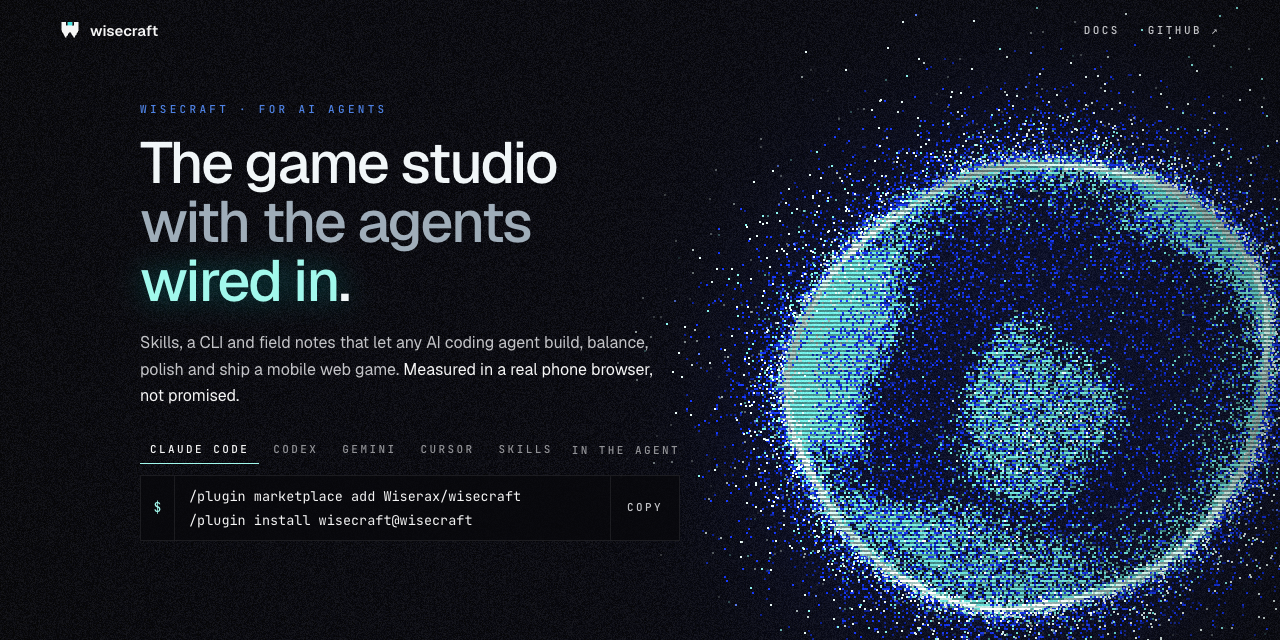
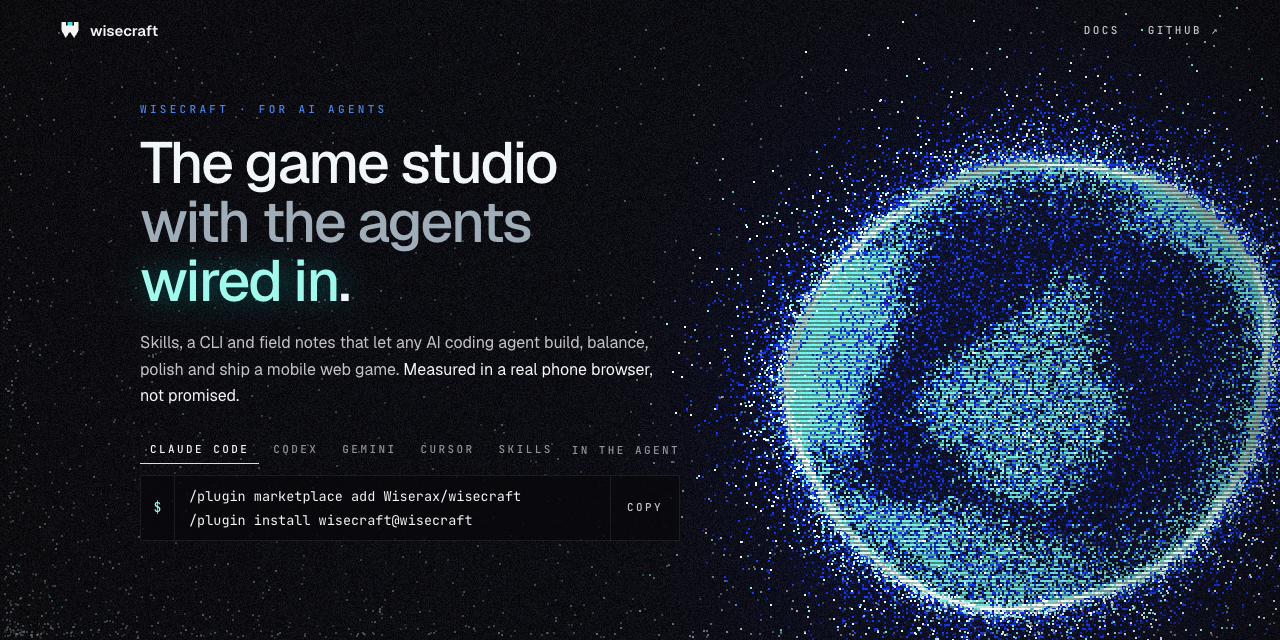
Site: a one-screen landing page; dust over the page, a maker mark and a credits chip; an island in the middle of the sphere
Everything below the hero is gone (the README has it), the page does not scroll, and the rail links to the
docs. Sparse motes drift and twinkle over the page, densest at the empty bottom-left. Short desktop screens
get tighter spacing; phones under 700 px tall may scroll so nothing is cut.

Changed region(s): [[0.6875, 0.4062, 0.875, 0.7188], [0.0, 0.9688, 0.0625, 1.0], [0.8438, 0.7188, 0.875, 0.75]]

diff --git a/docs/site/index.html b/docs/site/index.html
@@ -93,10 +93,15 @@ footer a{color:var(--ink-7)}footer a:hover{color:var(--ink-9)}
 a:focus-visible,button:focus-visible,summary:focus-visible{outline:1px solid var(--rim);outline-offset:2px}
 @media (max-width:600px){.cmd code{white-space:normal;overflow-wrap:anywhere}}
 @media (max-width:900px){nav,.hero,section,footer{padding-left:22px;padding-right:22px}.tabs button{white-space:nowrap}.cmd code{font-size:12.5px}h1{font-size:clamp(38px,11vw,56px)}.g5,.g4{grid-template-columns:repeat(2,1fr)}.g3{grid-template-columns:1fr}.row{grid-template-columns:1fr}.delta{text-align:left}.frames{grid-template-columns:repeat(2,1fr)}
-.hero{padding-top:120px;padding-bottom:calc(84vw + 56px)}nav .links a.hide{display:none}.tabs{overflow-x:auto}.tabs .right{display:none}td{display:block;border:0;padding:0 0 12px}td:first-child{padding-top:12px;border-top:1px solid var(--line);white-space:normal;word-break:break-word}table{border-top:0;border-bottom:1px solid var(--line)}section{padding-top:72px;padding-bottom:72px}}
-@media (min-width:901px) and (max-aspect-ratio:11/10){.hero{padding-bottom:calc(60vw + 56px)}}
+.hero{padding-top:104px;padding-bottom:0}nav .links a.hide{display:none}.tabs{overflow-x:auto}.tabs .right{display:none}td{display:block;border:0;padding:0 0 12px}td:first-child{padding-top:12px;border-top:1px solid var(--line);white-space:normal;word-break:break-word}table{border-top:0;border-bottom:1px solid var(--line)}section{padding-top:72px;padding-bottom:72px}}
+html,body{height:100%;overflow:hidden}.hero{height:100vh;height:100svh;min-height:0}
+.maker{position:fixed;left:32px;bottom:26px;z-index:20;display:flex;align-items:center;gap:10px;font:500 15px/1 var(--sans);letter-spacing:-.01em;color:var(--ink-9);text-decoration:none}.maker svg{width:18px;height:18px;fill:none;stroke:var(--accent);stroke-width:1.6;stroke-linecap:round}.maker:hover{color:var(--accent)}
+.legal{position:fixed;right:28px;bottom:22px;z-index:20;padding:8px 12px;border:1px solid var(--line);background:#050507b3;font:500 10px/1 var(--mono);letter-spacing:.22em;text-transform:uppercase;color:var(--ink-6);text-decoration:none}.legal:hover{color:var(--ink-7)}
+@media (max-width:900px){.maker{left:22px;bottom:20px;font-size:14px}.legal{right:16px;bottom:16px;padding:6px 9px;font-size:9px}}
+@media (max-height:600px),(max-width:600px) and (max-height:700px){html,body{height:auto;overflow:auto}.hero{height:auto;min-height:100svh;padding-bottom:120px}}
+@media (min-width:901px) and (max-height:820px){.hero{padding-top:112px}h1{margin-top:16px;font-size:clamp(40px,4.3vw,60px)}.sub{margin-top:20px}.install{margin-top:26px}.compat{margin-top:24px}}
 html.banner .hero{min-height:640px;height:640px;padding:104px 140px 0}html.banner nav{padding:20px 60px}html.banner h1{font-size:58px;margin-top:18px}html.banner .sub{margin-top:20px;font-size:16px}
-html.banner .install{margin-top:26px;max-width:540px}html.banner .compat,html.banner .rail,html.banner section,html.banner footer{display:none}
+html.banner .install{margin-top:26px;max-width:540px}html.banner .compat,html.banner .rail,html.banner .maker,html.banner .legal{display:none}
 @media (prefers-reduced-motion:reduce){html{scroll-behavior:auto}*{transition:none!important;animation:none!important}}
 </style>
 </head>
@@ -104,7 +109,7 @@ html.banner .install{margin-top:26px;max-width:540px}html.banner .compat,html.ba
 <div class="grain" aria-hidden="true"></div>
 <nav aria-label="Site"><a class="brand" href="#top" aria-label="wisecraft, top of page"><svg viewBox="0 0 100 100" width="20" height="20" aria-hidden="true"><polygon points="8,10 30,10 30,27 39,27 39,10 61,10 61,27 70,27 70,10 92,10 92,54 71,90 50,58 29,90 8,54" fill="#F5F5F5"/><rect x="39" y="10" width="22" height="17" fill="#45E3E0"/></svg>wisecraft</a>
 <div class="links"><a href="https://github.com/Wiserax/wisecraft#readme">DOCS</a><a href="https://github.com/Wiserax/wisecraft">GITHUB <span aria-hidden="true">↗</span></a></div></nav>
-<aside class="rail" aria-label="Sections"><a href="#loop" title="The loop" aria-label="The loop"><svg viewBox="0 0 24 24" aria-hidden="true"><path d="M4 12a8 8 0 0 1 13.7-5.7M20 12a8 8 0 0 1-13.7 5.7M17 3v4h-4M7 21v-4h4"/></svg><em>01</em></a><a href="#skills" title="Skills" aria-label="Skills"><svg viewBox="0 0 24 24" aria-hidden="true"><path d="M4 4h7v7H4zM13 4h7v7h-7zM4 13h7v7H4zM13 13h7v7h-7z"/></svg><em>02</em></a><a href="#cli" title="The wise CLI" aria-label="The wise CLI"><svg viewBox="0 0 24 24" aria-hidden="true"><path d="M3 5h18v14H3zM7 10l3 2-3 2M12.5 14.5H17"/></svg><em>03</em></a><a href="#knowledge" title="Knowledge base" aria-label="Knowledge base"><svg viewBox="0 0 24 24" aria-hidden="true"><path d="M6 3h9l4 4v14H6zM9.5 12h6M9.5 16h6"/></svg><em>04</em></a><a href="#measured" title="Measured" aria-label="Measured"><svg viewBox="0 0 24 24" aria-hidden="true"><path d="M4 20V10M10 20V4M16 20v-8M22 20H2"/></svg><em>05</em></a><a href="#versus" title="With vs without" aria-label="With vs without"><svg viewBox="0 0 24 24" aria-hidden="true"><path d="M5 20V8h5v12M14 20V5h5v15M3 20h18"/></svg><em>06</em></a><a href="#built" title="Built with it" aria-label="Built with it"><svg viewBox="0 0 24 24" aria-hidden="true"><path d="M3 5h18v14H3zM10 9l5.5 3-5.5 3z"/></svg><em>07</em></a><a href="#install" title="Install" aria-label="Install"><svg viewBox="0 0 24 24" aria-hidden="true"><path d="M12 3v12M7 10l5 5 5-5M4 20h16"/></svg><em>08</em></a></aside>
+<aside class="rail" aria-label="Sections"><a href="https://github.com/Wiserax/wisecraft#try-it" title="The loop" aria-label="The loop"><svg viewBox="0 0 24 24" aria-hidden="true"><path d="M4 12a8 8 0 0 1 13.7-5.7M20 12a8 8 0 0 1-13.7 5.7M17 3v4h-4M7 21v-4h4"/></svg><em>01</em></a><a href="https://github.com/Wiserax/wisecraft#whats-inside" title="Skills" aria-label="Skills"><svg viewBox="0 0 24 24" aria-hidden="true"><path d="M4 4h7v7H4zM13 4h7v7h-7zM4 13h7v7H4zM13 13h7v7h-7z"/></svg><em>02</em></a><a href="https://github.com/Wiserax/wisecraft#whats-inside" title="The wise CLI" aria-label="The wise CLI"><svg viewBox="0 0 24 24" aria-hidden="true"><path d="M3 5h18v14H3zM7 10l3 2-3 2M12.5 14.5H17"/></svg><em>03</em></a><a href="https://github.com/Wiserax/wisecraft#a-knowledge-base-that-ais-write-for-ais" title="Knowledge base" aria-label="Knowledge base"><svg viewBox="0 0 24 24" aria-hidden="true"><path d="M6 3h9l4 4v14H6zM9.5 12h6M9.5 16h6"/></svg><em>04</em></a><a href="https://github.com/Wiserax/wisecraft#built-with-it" title="Measured" aria-label="Measured"><svg viewBox="0 0 24 24" aria-hidden="true"><path d="M4 20V10M10 20V4M16 20v-8M22 20H2"/></svg><em>05</em></a><a href="https://github.com/Wiserax/wisecraft#rules-it-follows" title="Rules it follows" aria-label="Rules it follows"><svg viewBox="0 0 24 24" aria-hidden="true"><path d="M5 20V8h5v12M14 20V5h5v15M3 20h18"/></svg><em>06</em></a><a href="https://github.com/Wiserax/wisecraft#made-a-game-with-it" title="Built with it" aria-label="Built with it"><svg viewBox="0 0 24 24" aria-hidden="true"><path d="M3 5h18v14H3zM10 9l5.5 3-5.5 3z"/></svg><em>07</em></a><a href="https://github.com/Wiserax/wisecraft#install" title="Install" aria-label="Install"><svg viewBox="0 0 24 24" aria-hidden="true"><path d="M12 3v12M7 10l5 5 5-5M4 20h16"/></svg><em>08</em></a></aside>
 <main id="top">
 <header class="hero">
 <canvas id="planet" aria-hidden="true"></canvas>
@@ -116,57 +121,9 @@ html.banner .install{margin-top:26px;max-width:540px}html.banner .compat,html.ba
 <div class="compat"><p class="label">Compatible</p><ul><li title="Claude Code"><svg viewBox="0 0 24 24" role="img" aria-label="Claude Code"><path d="M12 3v18M3 12h18M5.6 5.6l12.8 12.8M18.4 5.6L5.6 18.4"/></svg></li><li title="Codex"><svg viewBox="0 0 24 24" role="img" aria-label="Codex"><path d="M12 3l8 4.5v9L12 21l-8-4.5v-9z"/></svg></li><li title="Cursor"><svg viewBox="0 0 24 24" role="img" aria-label="Cursor"><path d="M5 3l14 9-6 1.5L10 20z"/></svg></li><li title="Gemini CLI"><svg viewBox="0 0 24 24" role="img" aria-label="Gemini CLI"><path d="M12 3c1 5 4 8 9 9-5 1-8 4-9 9-1-5-4-8-9-9 5-1 8-4 9-9z"/></svg></li><li title="Copilot"><svg viewBox="0 0 24 24" role="img" aria-label="Copilot"><path d="M4 9h16v8a3 3 0 0 1-3 3H7a3 3 0 0 1-3-3zM9 13v2M15 13v2"/></svg></li><li title="OpenCode"><svg viewBox="0 0 24 24" role="img" aria-label="OpenCode"><path d="M8 7l-5 5 5 5M16 7l5 5-5 5"/></svg></li></ul></div>
 </header>
 
-<section id="loop"><p class="num">01 · the loop</p><h2>One loop, <i>every time</i>.</h2>
-<p class="lead">Ask for anything: “stage 1 is boring”, “the explosions are too loud”, “it lags on stage 7”. The agent finds its place in the loop and works from there.</p>
-<div class="grid g5"><div class="cell"><span class="n">01</span><b>Recon</b><small>wise scan</small></div><div class="cell"><span class="n">02</span><b>Slice</b><small>one playable loop</small></div><div class="cell"><span class="n">03</span><b>Economy</b><small>player-model bots</small></div><div class="cell"><span class="n">04</span><b>UI kit</b><small>one golden CTA</small></div><div class="cell"><span class="n">05</span><b>Feel + audio</b><small>a measured mix</small></div><div class="cell"><span class="n">06</span><b>Performance</b><small>60 fps that holds</small></div><div class="cell"><span class="n">07</span><b>Browser QA</b><small>wise qa</small></div><div class="cell"><span class="n">08</span><b>Release</b><small>wise publish check</small></div><div class="cell"><span class="n">09</span><b>Trailer</b><small>wise video compile</small></div><div class="cell"><span class="n">10</span><b>Field note</b><small>wise kb add</small></div></div></section>
-
-<section id="skills"><p class="num">02 · skills</p><h2>Twelve skills. <i>One router</i>.</h2>
-<p class="lead">Agent Skills format. The same files for every agent; <span class="mono">make-web-game</span> says which one to open next.</p>
-<div class="grid g4"><a class="cell" href="https://github.com/Wiserax/wisecraft/tree/main/skills/make-web-game"><code>make-web-game</code><p>The loop, the producer contract, the golden rules, and which skill to open next</p></a><a class="cell" href="https://github.com/Wiserax/wisecraft/tree/main/skills/web-game-recon"><code>web-game-recon</code><p>Stack, saves, analytics, debug hooks and the baseline, before anything changes</p></a><a class="cell" href="https://github.com/Wiserax/wisecraft/tree/main/skills/game-economy"><code>game-economy</code><p>Player-model bots, a difficulty index, rising-sine stages, boss tiers</p></a><a class="cell" href="https://github.com/Wiserax/wisecraft/tree/main/skills/game-ui-kit"><code>game-ui-kit</code><p>One golden call to action, a one-row battle bar, a wordless first session</p></a><a class="cell" href="https://github.com/Wiserax/wisecraft/tree/main/skills/game-feel-audio"><code>game-feel-audio</code><p>Bosses you feel, and a mix that is measured, never played aloud</p></a><a class="cell" href="https://github.com/Wiserax/wisecraft/tree/main/skills/game-performance"><code>game-performance</code><p>Budgets, real late-stage tests, a quality guard that recovers</p></a><a class="cell" href="https://github.com/Wiserax/wisecraft/tree/main/skills/browser-qa"><code>browser-qa</code><p>Muted phone bots that tap like players; errors and overflow fail the run</p></a><a class="cell" href="https://github.com/Wiserax/wisecraft/tree/main/skills/release-web-game"><code>release-web-game</code><p>Version, prebuilt deploy, live checks, frozen older versions</p></a><a class="cell" href="https://github.com/Wiserax/wisecraft/tree/main/skills/agent-orchestration"><code>agent-orchestration</code><p>A lead, workers, file ownership, milestone notes</p></a><a class="cell" href="https://github.com/Wiserax/wisecraft/tree/main/skills/trailer-video"><code>trailer-video</code><p>A hook in 3 s, the loop by 8 s, a slow-motion finale</p></a><a class="cell" href="https://github.com/Wiserax/wisecraft/tree/main/skills/design-boards"><code>design-boards</code><p>HTML mockups to phone-sized boards</p></a><a class="cell" href="https://github.com/Wiserax/wisecraft/tree/main/skills/share-field-notes"><code>share-field-notes</code><p>Search the knowledge base, write a note, open the PR</p></a></div></section>
-
-<section id="cli"><p class="num">03 · the wise cli</p><h2>Tools that <i>measure</i>.</h2>
-<p class="lead">One Python CLI. Every command has <span class="mono">--help</span> with examples.</p>
-<table><tbody><tr><td>wise scan</td><td>What a web game is made of: stack, versions, entry points, debug hooks, analytics, audio, bundle size.</td></tr><tr><td>wise qa</td><td>A muted phone-sized browser that taps like a player. Console errors and overflow fail the run.</td></tr><tr><td>wise board</td><td>HTML mockups in, phone-sized screens and one review board out.</td></tr><tr><td>wise loudness</td><td>How loud a file is, measured with ffmpeg. Never played.</td></tr><tr><td>wise dupframes</td><td>Repeated frames in a video: the stutter check for slow motion.</td></tr><tr><td>wise video compile</td><td>An edit list in, a finished trailer out.</td></tr><tr><td>wise kb</td><td>The knowledge base: search, add, check, index, pr.</td></tr><tr><td>wise publish check</td><td>Stops secrets, private URLs and names you listed from going public.</td></tr></tbody></table>
-<pre aria-label="Real output of wise qa on the sample game"><b><i>$</i> wise qa http://127.0.0.1:5890/ --ready "window.__game" --seconds 10 --out shots</b>
-<u>PASS</u>  chromium 390x844  http://127.0.0.1:5890/  (system chrome)
-  ready:        yes after 201 ms  (window.__game)
-  game:         window.__game found, keys: sim, state, step, tap; other hooks: __THREE__
-  taps:         20 of 20 over 10 s in canvas, seed 1
-  blocked:      1 request(s) matching **/api/events
-  errors:       none
-  overflow:     none
-  failed requests: none
-  screenshots:  shots/1-start.png, shots/2-middle.png, shots/3-end.png</pre></section>
-
-<section id="knowledge"><p class="num">04 · knowledge base</p><h2>20 field notes, <i>written by agents</i>.</h2>
-<p class="lead">Each one is a problem a real web game hit, the cause and the fix: versions, verification, and what was not verified. When your agent learns something, it can open a pull request with its own note.</p>
-<ul class="notes"><li><a href="https://github.com/Wiserax/wisecraft/blob/main/knowledge/games/horde-tower-defense-mobile-web/a-double-size-boss-stood-half-a-metre-out-of-reach-and-never.md"><span>game</span>A double-size boss stood half a metre out of reach and never hit the wall</a></li><li><a href="https://github.com/Wiserax/wisecraft/blob/main/knowledge/games/horde-tower-defense-mobile-web/the-audio-mix-measured-not-listened-to-music-at-34-lufs-made.md"><span>game</span>The audio mix measured, not listened to: music at -34 LUFS made every boom read 9 to 19 dB too loud</a></li><li><a href="https://github.com/Wiserax/wisecraft/blob/main/knowledge/games/horde-tower-defense-mobile-web/a-quality-guard-that-asked-for-13-ms-frames-never-recovered.md"><span>game</span>A quality guard that asked for 13 ms frames never recovered on a 60 Hz screen</a></li><li><a href="https://github.com/Wiserax/wisecraft/blob/main/knowledge/techniques/sim-bots-and-a-real-browser-bot-disagree-about-the-first-ses.md"><span>technique</span>Sim bots and a real-browser bot disagree about the first session: prove the first minutes with real taps</a></li></ul>
-<pre><b><i>$</i> wise kb search "boss never reaches the wall"</b>
-<b><i>$</i> wise kb add --game "My roguelite (mobile web)" --title "A dash that never clips walls"</b></pre></section>
-
-<section id="measured"><p class="num">05 · measured</p><h2>Before and after, <i>on a shipped game</i>.</h2>
-<p class="lead">A horde tower defense for phones: Vite + three.js, 8,000 enemies on screen at 60 fps. One project, one machine; each figure is a single measurement or a small set, as its source says.</p>
-<div class="legend"><span><i></i>before</span><span class="a"><i></i>after</span></div>
-<div class="chart"><div class="row"><div><h3>Dead air in the first stage</h3><small>longest stretch with nothing new to watch, waves 2–3</small></div><div class="bars"><div class="bar"><i style="width:78.0%"></i>18.4 s</div><div class="bar after"><i style="width:40.3%"></i>9.5 s</div></div><div class="delta">−48%</div></div><div class="row"><div><h3>First sound after the first tap</h3><small>new player, Fast 4G profile, 4× slower CPU, median of 5</small></div><div class="bars"><div class="bar"><i style="width:78.0%"></i>7.6 s</div><div class="bar after"><i style="width:15.4%"></i>1.5 s</div></div><div class="delta">5× sooner</div></div><div class="row"><div><h3>Frame rate when the horde piles up</h3><small>slow phone (4× CPU throttle), about 5,000 enemies</small></div><div class="bars"><div class="bar"><i style="width:29.5%"></i>14 fps</div><div class="bar after"><i style="width:78.0%"></i>37 fps</div></div><div class="delta">2.6×</div></div><div class="row"><div><h3>Slow-motion frames that show new motion</h3><small>out of 24 slowed frames in a boss death</small></div><div class="bars"><div class="bar"><i style="width:30.5%"></i>9 of 24</div><div class="bar after"><i style="width:78.0%"></i>23 of 24</div></div><div class="delta">2.6×</div></div><div class="row"><div><h3>How long a boss survives a fast tapper</h3><small>stage boss, producer-like player model</small></div><div class="bars"><div class="bar"><i style="width:28.9%"></i>10 s</div><div class="bar after"><i style="width:78.0%"></i>27 s</div></div><div class="delta">2.7×</div></div><div class="row"><div><h3>Boss-death boom over the music</h3><small>loudest 400 ms against the music bed</small></div><div class="bars"><div class="bar"><i style="width:78.0%"></i>+11.5 dB</div><div class="bar after"><i style="width:18.3%"></i>−2.7 dB</div></div><div class="delta">−14 dB</div></div></div>
-<details><summary>Where each number comes from</summary><ul><li><b>Dead air in the first stage</b>: 18.4 s to 9.5 s. outputs/coordination/log.md, stage-1 scout entry (real build, 390×844, one seed).</li><li><b>First sound after the first tap</b>: 7.6 s to 1.5 s. MODLOG.md, 2026-10-09 audio load order entry.</li><li><b>Frame rate when the horde piles up</b>: 14 fps to 37 fps. MODLOG.md, 2026-10-09 adaptive quality guard entry (lowest 20 s window).</li><li><b>Slow-motion frames that show new motion</b>: 9 of 24 to 23 of 24. MODLOG.md, 2026-10-11 VFX entry; trailer NOTES.md.</li><li><b>How long a boss survives a fast tapper</b>: 10 s to 27 s. MODLOG.md, 2.3.1 open list (about 10 s); outputs/coordination/log.md, 2.3.2 release entry (27 s).</li><li><b>Boss-death boom over the music</b>: +11.5 dB to −2.7 dB. outputs/audio-235/loudness-table.md (muted captures, BS.1770).</li></ul></details></section>
-
-<section id="versus"><p class="num">06 · with vs without</p><h2>A benchmark that <i>shows nothing yet</i>.</h2>
-<p class="lead">Three toy tasks on a 200-line sample game, 18 headless runs, scored by script.</p>
-<div class="grid g3"><div class="panel"><h3>Checks passed</h3><div class="who">without</div><div class="bar"><i style="width:60.6%"></i><b>98%</b></div><div class="sd">± 7 · n = 9</div><div class="who">with wisecraft</div><div class="bar after"><i style="width:62.0%"></i><b>100%</b></div><div class="sd">± 0 · n = 9</div></div><div class="panel"><h3>Minutes per task</h3><div class="who">without</div><div class="bar"><i style="width:60.7%"></i><b>3.6</b></div><div class="sd">± 1.6 · n = 9</div><div class="who">with wisecraft</div><div class="bar after"><i style="width:62.0%"></i><b>3.7</b></div><div class="sd">± 1.3 · n = 9</div></div><div class="panel"><h3>Tokens per task</h3><div class="who">without</div><div class="bar"><i style="width:57.9%"></i><b>825 k</b></div><div class="sd">± 420 k · n = 9</div><div class="who">with wisecraft</div><div class="bar after"><i style="width:62.0%"></i><b>884 k</b></div><div class="sd">± 454 k · n = 9</div></div></div>
-<p class="caption">Three toy tasks, 18 runs: 100% vs 98% of checks. <b>The tasks were too easy to separate the two</b>, so this shows no difference yet. Harder, real-game tasks are next. Harness and raw results: <a href="https://github.com/Wiserax/wisecraft/tree/main/benchmarks"><u>benchmarks/</u></a>.</p></section>
-
-<section id="built"><p class="num">07 · built with it</p><h2>Written while <i>shipping one</i>.</h2>
-<ul class="plain"><li>Ten-stage chapters shaped as a rising sine, with bosses and a titan that walk in from the edge of the field and slam the walls.</li>
-<li>Balanced with four player-model bots, then proven with a browser bot that taps the real UI.</li>
-<li>A mix measured in a muted browser and never played aloud by an agent.</li>
-<li>A producer, a lead agent and worker agents; every step written down.</li></ul>
-<div class="frames"><figure><img src="frames/boss.jpg" alt="2x boss slam: a frame from the shipped game" loading="lazy" width="480" height="270"><figcaption>2x boss slam</figcaption></figure><figure><img src="frames/horde.jpg" alt="8,000 at 60 fps: a frame from the shipped game" loading="lazy" width="480" height="270"><figcaption>8,000 at 60 fps</figcaption></figure><figure><img src="frames/titan.jpg" alt="titan wave: a frame from the shipped game" loading="lazy" width="480" height="270"><figcaption>titan wave</figcaption></figure><figure><img src="frames/vault.jpg" alt="vault reveal: a frame from the shipped game" loading="lazy" width="480" height="270"><figcaption>vault reveal</figcaption></figure><figure><img src="frames/blade.jpg" alt="blade frenzy: a frame from the shipped game" loading="lazy" width="480" height="270"><figcaption>blade frenzy</figcaption></figure><figure><img src="frames/clear.jpg" alt="chapter clear: a frame from the shipped game" loading="lazy" width="480" height="270"><figcaption>chapter clear</figcaption></figure></div></section>
-
-<section id="install"><p class="num">08 · install</p><h2>Pick your agent. <i>Same skills</i>.</h2>
-<table><tbody><tr><td>/plugin marketplace add Wiserax/wisecraft</td><td>Claude Code · then /plugin install wisecraft@wisecraft</td></tr><tr><td>codex plugin marketplace add Wiserax/wisecraft</td><td>Codex · then codex plugin add wisecraft@wisecraft</td></tr><tr><td>gemini extensions install https://github.com/Wiserax/wisecraft</td><td>Gemini</td></tr><tr><td>git clone https://github.com/Wiserax/wisecraft</td><td>Cursor</td></tr><tr><td>npx skills add https://github.com/Wiserax/wisecraft</td><td>Skills</td></tr><tr><td>uv tool install git+https://github.com/Wiserax/wisecraft</td><td>The CLI alone</td></tr></tbody></table>
-<p class="caption">Needs Python 3.10+, Node 18+ and ffmpeg. The browser tools use Playwright from your game's folder.</p></section>
 </main>
-<footer><span>MIT · created by Alex Wiserax</span><span>Architecture adapted from <a href="https://github.com/rehan-remade/universal-modder">Universal Modder</a> by Rehan, MIT</span><a href="https://github.com/Wiserax/wisecraft">github.com/Wiserax/wisecraft</a></footer>
+<a class="maker" href="https://github.com/Wiserax" aria-label="Wiserax on GitHub"><svg viewBox="0 0 24 24" aria-hidden="true"><path d="M12 2v20M2 12h20M5 5l14 14M19 5L5 19"/></svg>Wiserax</a>
+<a class="legal" href="https://github.com/Wiserax/wisecraft#credits">MIT · Wiserax © 2026</a>
 <script>
 (()=>{
 if(location.hash==='#banner')document.documentElement.classList.add('banner');

diff --git a/docs/site/sphere.js b/docs/site/sphere.js
@@ -10,7 +10,7 @@
 
   const COMMON = `#version 300 es
 precision highp float; precision highp int;
-uniform vec2 uRes; uniform float uDpr, uT; uniform vec4 uE; uniform vec2 uK;   // uE: centre.xy, radii.zw; uK: tilt, wide
+uniform vec2 uRes; uniform float uDpr, uT, uDust; uniform vec4 uE; uniform vec2 uK;   // uE: centre.xy, radii.zw; uK: tilt, wide
 const float TAU = 6.2831853;
 uint hh(uint x){ x ^= x >> 17; x *= 0xed5ad4bbu; x ^= x >> 11; x *= 0xac4c1b51u; x ^= x >> 15; x *= 0x31848babu; x ^= x >> 14; return x; }
 float rf(uint x){ return float(hh(x) >> 8) / 16777216.0; }
@@ -69,6 +69,8 @@ void main(){
     isl = max(isl, smoothstep(0.845, 0.950, dot(P, normalize(vec3(0.85, -0.45, -0.28)))));
     isl = max(isl, smoothstep(0.895, 0.985, dot(P, normalize(vec3(-0.30, 0.62, 0.72)))));
     isl = max(isl, smoothstep(0.835, 0.940, dot(P, normalize(vec3(-0.70, 0.20, -0.68)))));
+    vec3 C = normalize(N + 0.12 * vec3(sin(N.y * 7.0 + t * 0.006), sin(N.x * 6.0 - t * 0.005), 0.0));
+    isl = max(isl, 0.9 * smoothstep(0.885, 0.975, C.z + 0.02 * sin(t * 0.004)));
     float rimBand = exp(-dp / (34.0 * s));
     float core = isl * isl;                                                   // islands are densest in the middle
     pr = exp(-dp / (5.0 * s)) * 0.9 + 0.08 * core * lit;
@@ -105,6 +107,21 @@ void main(){
   const PART_VS = COMMON + `
 out float vA; out vec3 vC;
 void main(){
+  if (uDust > 0.5) {
+    uint dd = hh(uint(gl_VertexID) ^ 0x9b05688cu);
+    float a1 = rf(dd), a2 = rf(dd ^ 0x1f83d9abu), a3 = rf(dd ^ 0x5be0cd19u), a4 = rf(dd ^ 0x6a09e667u);
+    vec2 w = WH(); float s = SC();
+    // most motes sit low and to the left, drifting up and right very slowly, and twinkle
+    vec2 p = vec2(pow(a1, 1.9) * w.x * 1.05, w.y * (1.0 - pow(a2, 2.2) * 0.95));
+    p += vec2(0.045, -0.03) * s * uT * (0.4 + a3);
+    p = mod(p + w * 0.1, w * 1.2) - w * 0.1;
+    float tw = 0.5 + 0.5 * sin(uT * (0.01 + 0.03 * a4) + a3 * TAU);
+    vA = (0.55 + 0.45 * a4) * (0.45 + 0.55 * tw) * mix(0.35, 1.0, textMask(p));
+    vC = a3 > 0.82 ? vec3(0.55, 0.98, 0.95) : vec3(0.95, 0.97, 1.0);
+    gl_Position = vec4(p.x / w.x * 2.0 - 1.0, 1.0 - p.y / w.y * 2.0, 0.0, 1.0);
+    gl_PointSize = 2.0;
+    return;
+  }
   uint sd = hh(uint(gl_VertexID) ^ 0x2545f491u);
   float u1 = rf(sd), u2 = rf(sd ^ 0x68e31da4u), u3 = rf(sd ^ 0xb5297a4du), u4 = rf(sd ^ 0x1b56c4e9u),
         u5 = rf(sd ^ 0x7fb5d329u), u6 = rf(sd ^ 0xd2a98b26u), u7 = rf(sd ^ 0x3c6ef372u);
@@ -147,10 +164,10 @@ precision highp float; in float vA; in vec3 vC; out vec4 o; void main(){ o = vec
   };
   const field = prog(FIELD_VS, FIELD_FS), parts = prog(PART_VS, PART_FS);
   gl.bindVertexArray(gl.createVertexArray());
-  const loc = (p) => Object.fromEntries(['uRes', 'uDpr', 'uT', 'uE', 'uK'].map((n) => [n, gl.getUniformLocation(p, n)]));
+  const loc = (p) => Object.fromEntries(['uRes', 'uDpr', 'uT', 'uE', 'uK', 'uDust'].map((n) => [n, gl.getUniformLocation(p, n)]));
   const L = new Map([[field, loc(field)], [parts, loc(parts)]]);
 
-  let E = [0, 0, 1, 1], K = [0, 0], N = 0, dpr = 1;
+  let E = [0, 0, 1, 1], K = [0, 0], N = 0, ND = 0, dpr = 1;
   const geom = () => {
     const hero = cv.parentElement, W = hero.clientWidth, H = hero.clientHeight;
     dpr = Math.min(devicePixelRatio || 1, 1.5);
@@ -175,19 +192,20 @@ precision highp float; in float vA; in vec3 vC; out vec4 o; void main(){ o = vec
       const r = 0.40 * W;
       E = [0.64 * W, Math.max(bottom + 36 + r * 1.02, H - r * 1.1), r, r * 1.02]; K = [-0.3, 0];
     }
-    N = Math.round(0.0034 * W * H);
+    N = Math.round(0.0034 * W * H); ND = Math.round(0.0016 * W * H);
     gl.viewport(0, 0, cv.width, cv.height);
   };
   const set = (p, t) => {
     const u = L.get(p); gl.useProgram(p);
     gl.uniform2f(u.uRes, cv.width, cv.height); gl.uniform1f(u.uDpr, dpr); gl.uniform1f(u.uT, t);
-    gl.uniform4fv(u.uE, E); gl.uniform2fv(u.uK, K);
+    gl.uniform4fv(u.uE, E); gl.uniform2fv(u.uK, K); gl.uniform1f(u.uDust, 0);
   };
   const stats = (window.__planet = { frames: 0, ms: 0 });
   const render = (t) => {
     const t0 = performance.now();
     gl.disable(gl.BLEND); set(field, t); gl.drawArrays(gl.TRIANGLES, 0, 3);
     gl.enable(gl.BLEND); gl.blendFunc(gl.SRC_ALPHA, gl.ONE_MINUS_SRC_ALPHA); set(parts, t); gl.drawArrays(gl.POINTS, 0, N);
+    gl.uniform1f(L.get(parts).uDust, 1); gl.drawArrays(gl.POINTS, 0, ND);
     stats.ms += (performance.now() - t0 - stats.ms) / ++stats.frames;
   };
 
